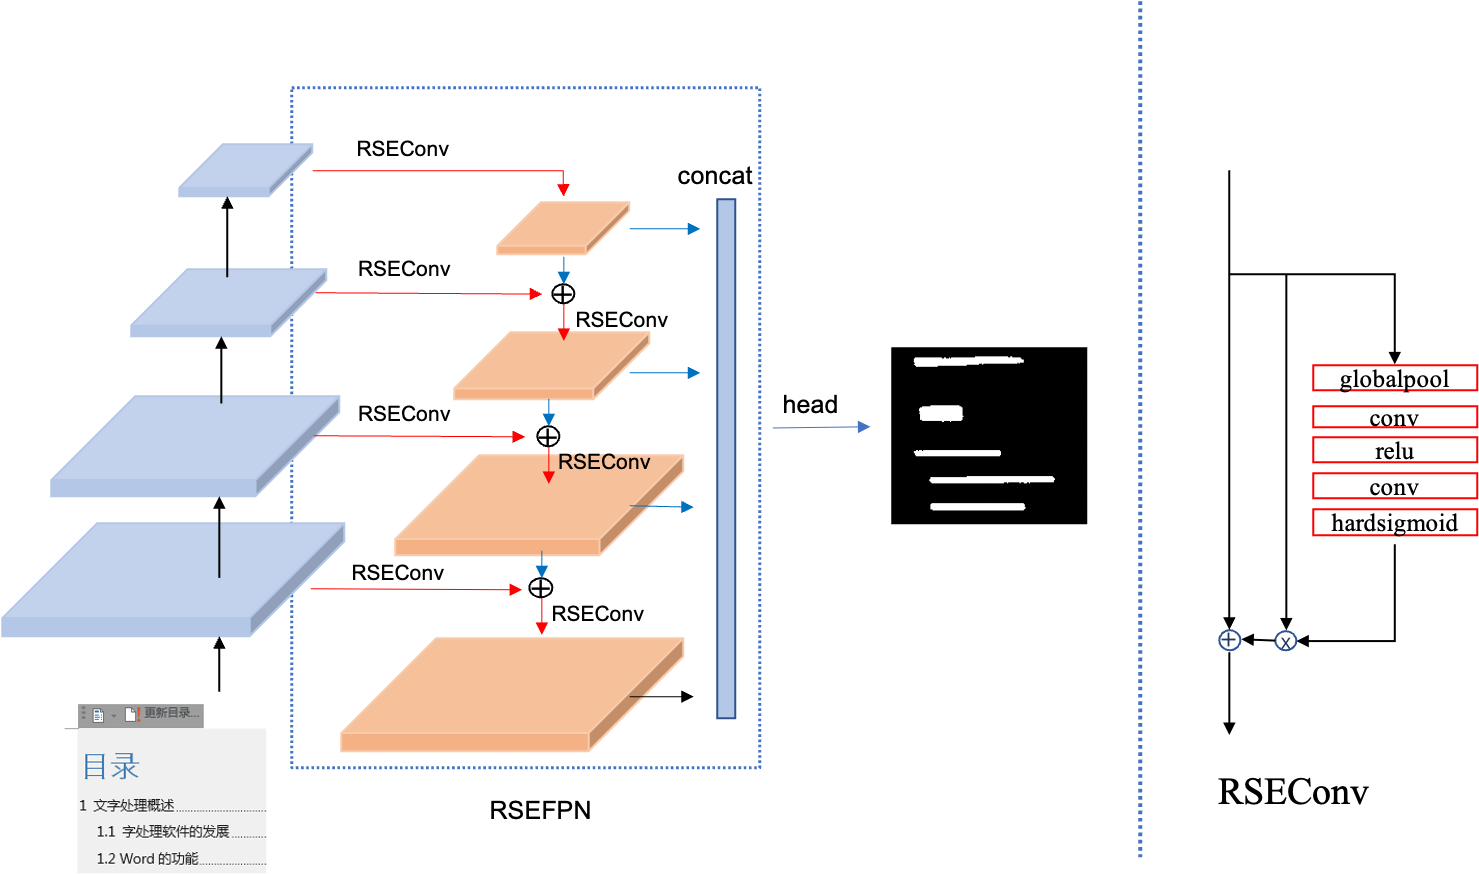
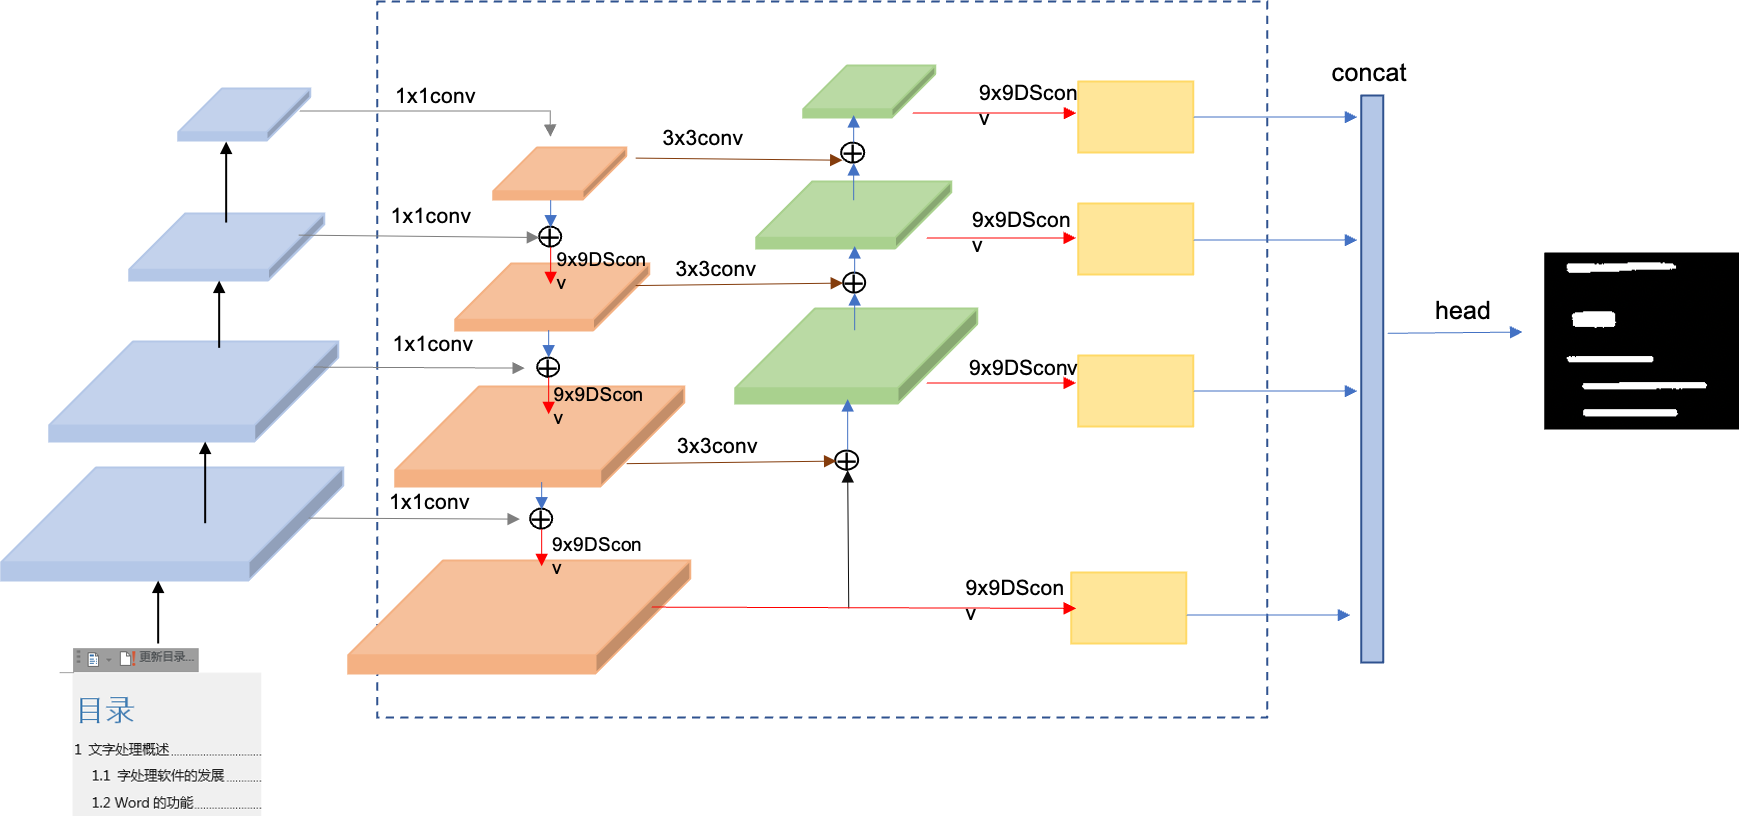
fix

diff --git a/doc/doc_ch/PP-OCRv3_introduction.md b/doc/doc_ch/PP-OCRv3_introduction.md
@@ -44,10 +44,11 @@ RSEFPN的网络结构如下图所示，RSEFPN在PP-OCRv2的FPN基础上，将FPN
     <img src=".././ppocr_v3/RSEFPN.png" width="800">
 </div>
 
-
 RSEFPN将PP-OCR检测模型的精度hmean从81.3%提升到84.5%。模型大小从3M变为3.6M。
 
-- 在蒸馏的teacher模型精度提升方面，提出了LKPAN结构替换PP-OCRv2的FPN结构，并且使用ResNet50作为Backbone，更大的模型带来更多的精度提升。另外，对teacher模型使用[DML](https://arxiv.org/abs/1706.00384)蒸馏策略进一步提升teacher模型的精度。最终teacher的模型指标hmean从83.2%提升到了86.0%。
+*注：PP-OCRv2的FPN通道数仅为96和24，如果直接用SE模块代替FPN的卷积会导致精度下降，使用残差结构可以防止训练中包含重要特征的通道被抑制。*
+
+- 在蒸馏的teacher模型精度提升方面，提出了LKPAN结构替换PP-OCRv2的FPN结构，并且使用ResNet50作为Backbone，更大的模型带来更多的精度提升。另外，对teacher模型使用[DML](https://arxiv.org/abs/1706.00384)蒸馏策略进一步提升teacher模型的精度。最终teacher的模型指标相比ppocr_server_v2.0从83.2%提升到了86.0%。
 
 *注：[PP-OCRv2的FPN结构](https://github.com/PaddlePaddle/PaddleOCR/blob/77acb3bfe51c8a46c684527f73cd218cefedb4a3/ppocr/modeling/necks/db_fpn.py#L107)对DB算法FPN结构做了轻量级设计*
 
@@ -57,7 +58,7 @@ LKPAN的网络结构如下图所示：
     <img src="../ppocr_v3/LKPAN.png" width="800">
 </div>
 
-LKPAN(Large Kernel PAN)是一个具有更大感受野的轻量级[PAN](https://arxiv.org/pdf/1803.01534.pdf)结构。在LKPAN的path augmentation中，使用kernel size为`9*9`的卷积；更大的kernel size意味着更大的感受野，更容易检测大字体的文字以及极端长宽比的文字。LKPAN将base检测模型的精度hmean从81.3%提升到84.9%。
+LKPAN(Large Kernel PAN)是一个具有更大感受野的轻量级[PAN](https://arxiv.org/pdf/1803.01534.pdf)结构。在LKPAN的path augmentation中，使用kernel size为`9*9`的卷积；更大的kernel size意味着更大的感受野，更容易检测大字体的文字以及极端长宽比的文字。LKPAN将PP-OCR检测模型的精度hmean从81.3%提升到84.9%。
 
 *注：LKPAN相比RSEFPN有更多的精度提升，但是考虑到模型大小和预测速度等因素，在student模型中使用RSEFPN。*
 
@@ -71,8 +72,8 @@ LKPAN(Large Kernel PAN)是一个具有更大感受野的轻量级[PAN](https://a
 |1|PP-OCRV2|3M|83.3%|117ms|
 |2|0 + RESFPN|3.6M|84.5%|124ms|
 |3|0 + LKPAN|4.6M|84.9%|156ms|
-|4|teacher |124M|83.2%|-|
-|5|teacher + DML + LKPAN|124M|86.0%|-|
+|4|ppocr_server_v2.0 |124M|83.2%||171ms|
+|5|teacher + DML + LKPAN|124M|86.0%|396ms|
 |6|0 + 2 + 5 + CML|3.6M|85.4%|124ms|
 
 

diff --git a/doc/doc_ch/ppocr_introduction.md b/doc/doc_ch/ppocr_introduction.md
@@ -47,7 +47,7 @@ PP-OCRv3文本检测从网络结构、蒸馏训练策略两个方向做了进一
 |-|-|-|-|-|
 |0|ppocr_mobile|3M|81.3|117ms|
 |1|PPOCRV2|3M|83.3|117ms|
-|2|teacher DML|124M|86.0|-|
+|2|teacher DML + LKPAN|124M|86.0|396ms|
 |3|1 + 2 + RESFPN|3.6M|85.4|124ms|
 |4|1 + 2 + LKPAN|4.6M|86.0|156ms|
 
